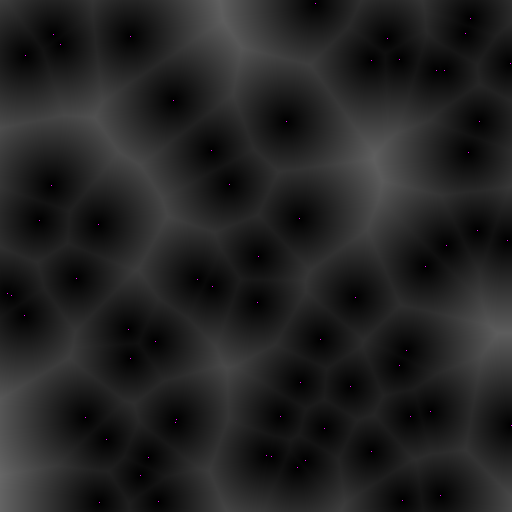
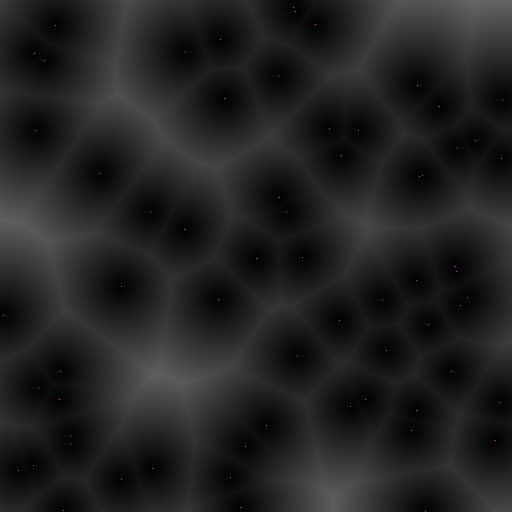
image looks different, but i think i just was wrong before

diff --git a/src/main.rs b/src/main.rs
@@ -9,85 +9,73 @@ const WIDTH : usize = 512;
 const POINTS: usize = 64;
 
 fn main() {
-    info();
     let mut prng = StdRng::seed_from_u64(SEED);
-
-    let mut n_map = NoiseMap::new(HEIGHT, WIDTH);
-
+    let mut n_map = WorleyMap::new(HEIGHT, WIDTH);
     let mut rand_points = Vec::with_capacity(POINTS);
     for _ in 0..POINTS {
-        rand_points.push( Point::with_max(HEIGHT, &mut prng) );
+        rand_points.push( Point::from_rng(HEIGHT, &mut prng) );
     }
 
-    n_map.values_from_distance(&rand_points, 0);
-
-    for point in rand_points {
-        n_map.set_colour(point.row, point.column, Rgb([255, 0, 255]));
-    }
-
-    n_map.save_image("Distances");
-}
-
-struct NoiseMap {
-    height: usize,
-    width: usize,
-    values: Vec<Vec<NoisePoint>>,
-    image: ImageBuffer<Rgb<u8>, Vec<u8>>,
-}
-
-impl NoiseMap {
-    fn new(height: usize, width: usize) -> Self {
-        let values = vec![vec![NoisePoint::new(); height]; width];
-        let image
+    let mut image: ImageBuffer<Rgb<u8>, Vec<u8>>
             = ImageBuffer::from_fn(
-                width as u32,
-                height as u32,
+                WIDTH as u32,
+                HEIGHT as u32,
                 |_, _| Rgb([0, 0, 0]),
             );
 
-        NoiseMap {
+    n_map.calc_noise(&rand_points, Distance::Euclidean, 0);
+
+    // Fill image with Worley values
+    for row in 0..n_map.height {
+        for column in 0..n_map.width {
+            let u8_noise = n_map.get(row, column) as u8;
+            image.put_pixel(
+                column as u32,
+                row as u32,
+                Rgb([u8_noise; 3])
+            );
+        }
+    }
+
+    // Draw the random points
+    for point in rand_points {
+        image.put_pixel(
+            point.column as u32,
+            point.row as u32,
+            Rgb([255, 0, 255])
+        );
+    }
+
+    save_img(image, "Distances");
+}
+
+struct WorleyMap {
+    height: usize,
+    width: usize,
+    values: Vec<f64>,
+}
+
+impl WorleyMap {
+    fn new(height: usize, width: usize) -> Self {
+        let values = vec![0.0; height * width];
+        WorleyMap {
             height,
             width,
             values,
-            image,
         }
     }
 
-    fn from_random_noise(rng: &mut StdRng) -> NoiseMap {
-        let mut n_map = NoiseMap::new(
-            HEIGHT,
-            WIDTH,
-        );
-    
-        for row in 0..n_map.height {
-            for column in 0..n_map.width {
-                let value = normalize(rng.next_u64());
-                
-                n_map.set(row, column, value);
-            }
-        }
-    
-        n_map
-    }
-
-    fn values_from_distance(&mut self, points: &Vec<Point>, n: usize) {
-        let mut l_dist = 0.0;
-        let mut s_dist = 100.0;
-        
+    fn calc_noise(&mut self, points: &Vec<Point>, dist_fn: Distance, n: usize) {
         for row in 0..self.height {
             if row % 100 == 0 { println!("Row: {}", row) }
             for column in 0..self.width {
                 let mut distances = Vec::with_capacity( 512 * POINTS );
                 for &point in points.iter() {
 
-                    let dist = euclidean_dist(
+                    let dist = dist_fn.dist(
                         Point { row, column },
                         point
                     );
-                    
-                    if l_dist < dist { l_dist = dist }
-                    if s_dist > dist { s_dist = dist }
-
                     distances.push(dist);
                 }
                 distances.sort_by(|a, b| a.partial_cmp(b).unwrap());
@@ -99,77 +87,31 @@ impl NoiseMap {
                 );
             }
         }
-
         println!("Done!");
-
-        println!("Largest distance: {}", l_dist);
-        println!("Smallest distance: {}", s_dist);
     }
 
-    fn set(&mut self, row: usize, column: usize, value: f64) {
+    fn index(&self, column: usize, row: usize) -> usize {
+        self.height * column + row
+    }
+
+    fn get(&self, column: usize, row: usize) -> f64 {
+        self.values[ self.index(column, row) ]
+    }
+
+    fn set(&mut self, column: usize, row: usize, value: f64) {
+        let index = self.index(column, row);
         self
-            .values[row][column]
-            .value = value;
-
-        let val_u8 = (value) as u8;
-        let colour = Rgb([val_u8; 3]);
-        self.set_colour(row, column, colour);
-    }
-
-    fn set_colour(&mut self, row: usize, column: usize, colour: Rgb<u8>) {
-        self.values[row][column].colour = colour;
-
-        self.image.put_pixel(
-            row as u32,
-            column as u32,
-            colour
-        );
-    }
-
-    fn save_image(&self, filename: &str) {
-        let filepath = format!("images/{}.png", filename);
-
-        let res = self.image.save(filepath);
-
-        match res {
-            Ok(_) => println!("Successfully saved image! :D"),
-            Err(e) => println!("Oh no!\n{}", e),
-        }
+            .values[ index ] = value;
     }
 }
 
-fn euclidean_dist(p: Point, q: Point) -> f64 {
-    let p1 = p.row as f64;
-    let p2 = p.column as f64;
+fn save_img(image: ImageBuffer<Rgb<u8>, Vec<u8>>, filename: &str) {
+    let filepath = format!("images/{}.png", filename);
+    let res = image.save(filepath);
 
-    let q1 = q.row as f64;
-    let q2 = q.column as f64;
-
-    ((q1 - p1).powi(2) + (q2 - p2).powi(2)).sqrt()
-}
-
-fn manhattan_dist(p: Point, q: Point) -> f64 {
-    let p1 = p.row as f64;
-    let p2 = p.column as f64;
-
-    let q1 = q.row as f64;
-    let q2 = q.column as f64;
-
-    (p1 - q1).abs() + (p2 - q2).abs()
-}
-
-#[derive(Debug, Copy, Clone)]
-struct NoisePoint {
-    value: f64,
-    colour: Rgb<u8>,
-}
-
-impl NoisePoint {
-    fn new() -> Self {
-        NoisePoint {
-            value: 0.0,
-            colour: Rgb([0, 0, 0]),
-        }
+    match res {
+        Ok(_) => println!("Image successfully saved :D"),
+        Err(e) => println!("Oh no!\n{}", e),
     }
 }
 
@@ -180,7 +122,7 @@ struct Point {
 }
 
 impl Point {
-    fn with_max(max: usize, rng: &mut StdRng) -> Self {
+    fn from_rng(max: usize, rng: &mut StdRng) -> Self {
         let max = max as f64;
         
         let row = (normalize(rng.next_u64()) * max) as usize;
@@ -193,35 +135,43 @@ impl Point {
 fn normalize(x: u64) -> f64 {
     let numerator = x as f64 - 0.0;
     let denominator = u64::MAX as f64 - 0.0;
-
+    
     numerator / denominator
 }
 
-fn normalize_list(values: Vec<f64>) -> Vec<f64> {
-    let mut normalized_list = Vec::new();
-
-    let mut min = f64::INFINITY;
-    let mut max = f64::NEG_INFINITY;
-    for &value in values.iter() {
-        if min > value { min = value }
-        if max < value { max = value }
-    }
-
-    for value in values {
-        let numerator = value - min;
-        let denominator = max - min;
-
-        normalized_list.push(numerator / denominator);
-    }
-
-    normalized_list
+enum Distance {
+    Euclidean,
+    Manhattan,
 }
 
-fn info() {
-    println!("
-        \tu32::MIN = {}
-        \tu32::MAX = {}
-        ",
-        0, "4.294.967.295"
-    );
+impl Distance {
+    pub fn dist(&self, p: Point, q: Point) -> f64{
+        match self {
+            Self::Euclidean => Self::euclidean_dist(p, q),
+            Self::Manhattan => Self::manhattan_dist(p, q),
+        }
+    }
+}
+
+impl Distance {
+    fn euclidean_dist(p: Point, q: Point) -> f64 {
+        let p1 = p.row as f64;
+        let p2 = p.column as f64;
+        
+        let q1 = q.row as f64;
+        let q2 = q.column as f64;
+        
+        ((q1 - p1).powi(2) + (q2 - p2).powi(2)).sqrt()
+    }
+    
+    fn manhattan_dist(p: Point, q: Point) -> f64 {
+        let p1 = p.row as f64;
+        let p2 = p.column as f64;
+        
+        let q1 = q.row as f64;
+        let q2 = q.column as f64;
+        
+        (p1 - q1).abs() + (p2 - q2).abs()
+        
+    }
 }
